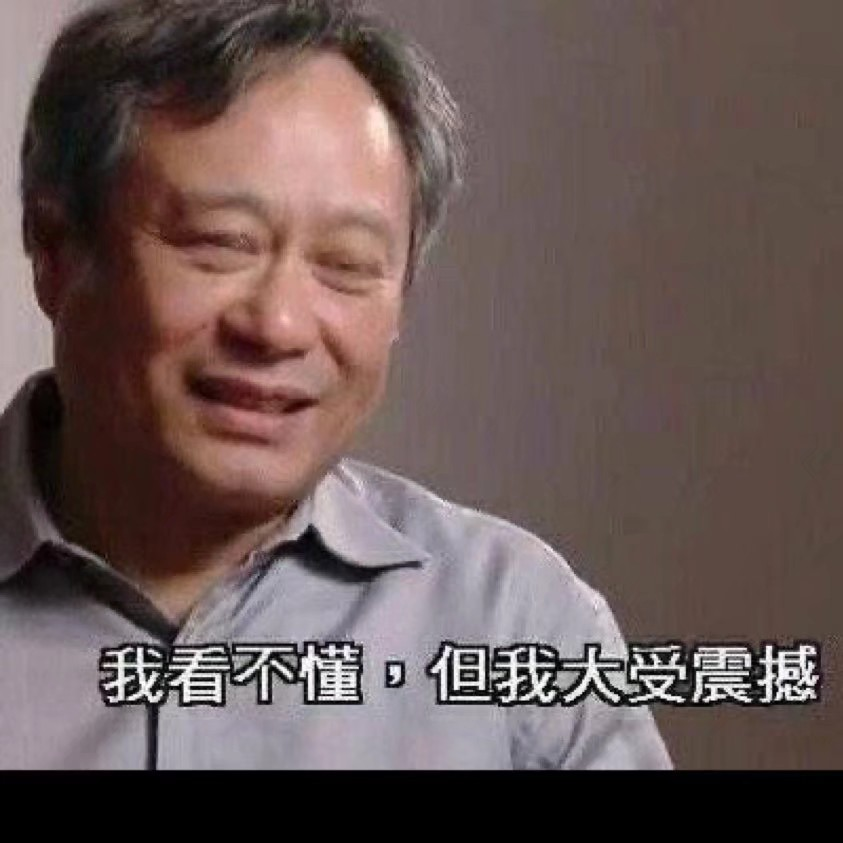
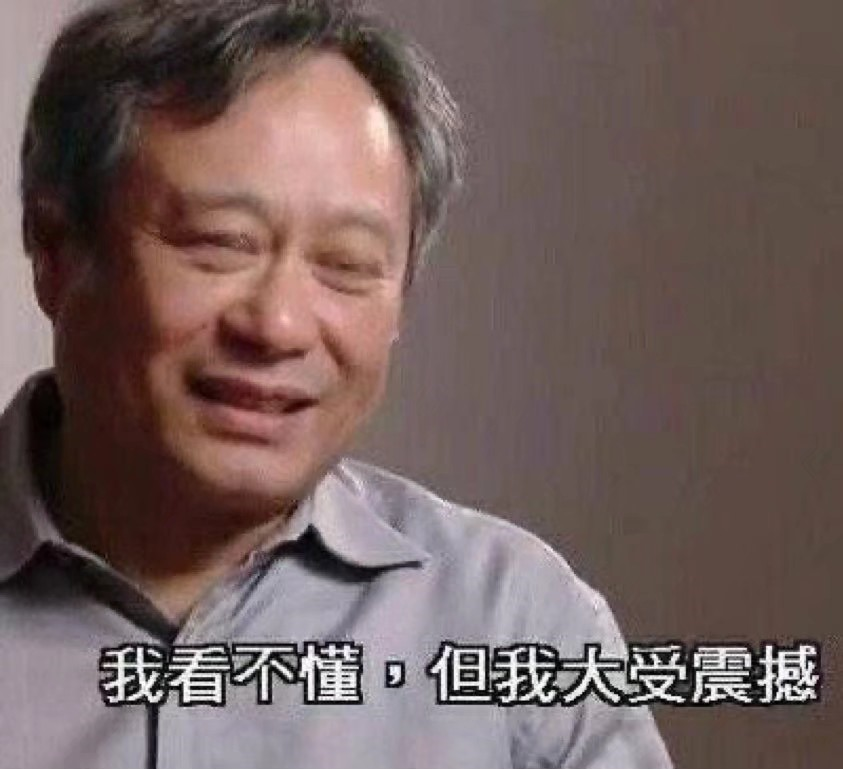
为咕咕咕添加了发送表情包的功能

diff --git a/NewKRobot/js/script.js b/NewKRobot/js/script.js
@@ -83,6 +83,16 @@ function appendChat(position, imgSrc, text){
         </div>
     `)
 }
+/*
+*发送图片
+*/
+
+function appendChatImg(position,imgSrc,msgimgSrc){
+	let srcstr="<img src=\""+msgimgSrc+"\" width=\"250px\" hight=\"250px\"/>"
+	appendChat(position,imgSrc,srcstr);
+}
+
+
 /**
  * 发送信息按钮被点击
  */
@@ -121,26 +131,21 @@ async function COW(){
     btn.style.display = "none"; 
 
 	let strCOW = ["我想要法姐姐如石楠花般洁白如钻石般闪耀的小！橡！皮！", "一拳打进法姐姐批里面"]
-	let locf, locb;
+	let locf="left", locb="left";
 	if(user == 0){
         locf = "right";
-        locb = "left"
     }else if(user == 1){
         locf = "left";
-        locb = "right";
-    }else{
-        locf = "left";
-        locb = "left";
     }
-
+	
     appendChat("left", "img/tjf.jpg", strCOW[Math.floor(Math.random() * strCOW.length)]);
     scrollBottom();
 
-    await sleep((Math.round(Math.random() * (2.5 - 0.5)) + 0.5) * 1000);
+    await sleep((Math.round(Math.random() * (0.6 - 0.5)) + 0.5) * 1000);
     appendChat(locf, "img/2.jpg", "?");
     scrollBottom();
 
-    await sleep((Math.round(Math.random() * (2.5 - 0.5)) + 0.5) * 1000);
+    await sleep((Math.round(Math.random() * (0.6 - 0.5)) + 0.5) * 1000);
     appendChat(locb, "img/1.jpg", "?");
     scrollBottom();
 
@@ -149,7 +154,7 @@ async function COW(){
     scrollBottom();
 
     await sleep((Math.round(Math.random() * (2.5 - 0.5)) + 0.5) * 1000);
-    appendChat("left", "img/gugugu.jpg", "我看不懂,但我大受震撼");
+    appendChatImg("left", "img/gugugu.jpg", "img/amazing.jpg");
     scrollBottom();
 
     await sleep((Math.round(Math.random() * (2.5 - 0.5)) + 0.5) * 1000);
@@ -195,5 +200,6 @@ function scrollBottom(){
 (function main(){
     addUsers()
     changeUser(0)
+	COW()
 })()
 
